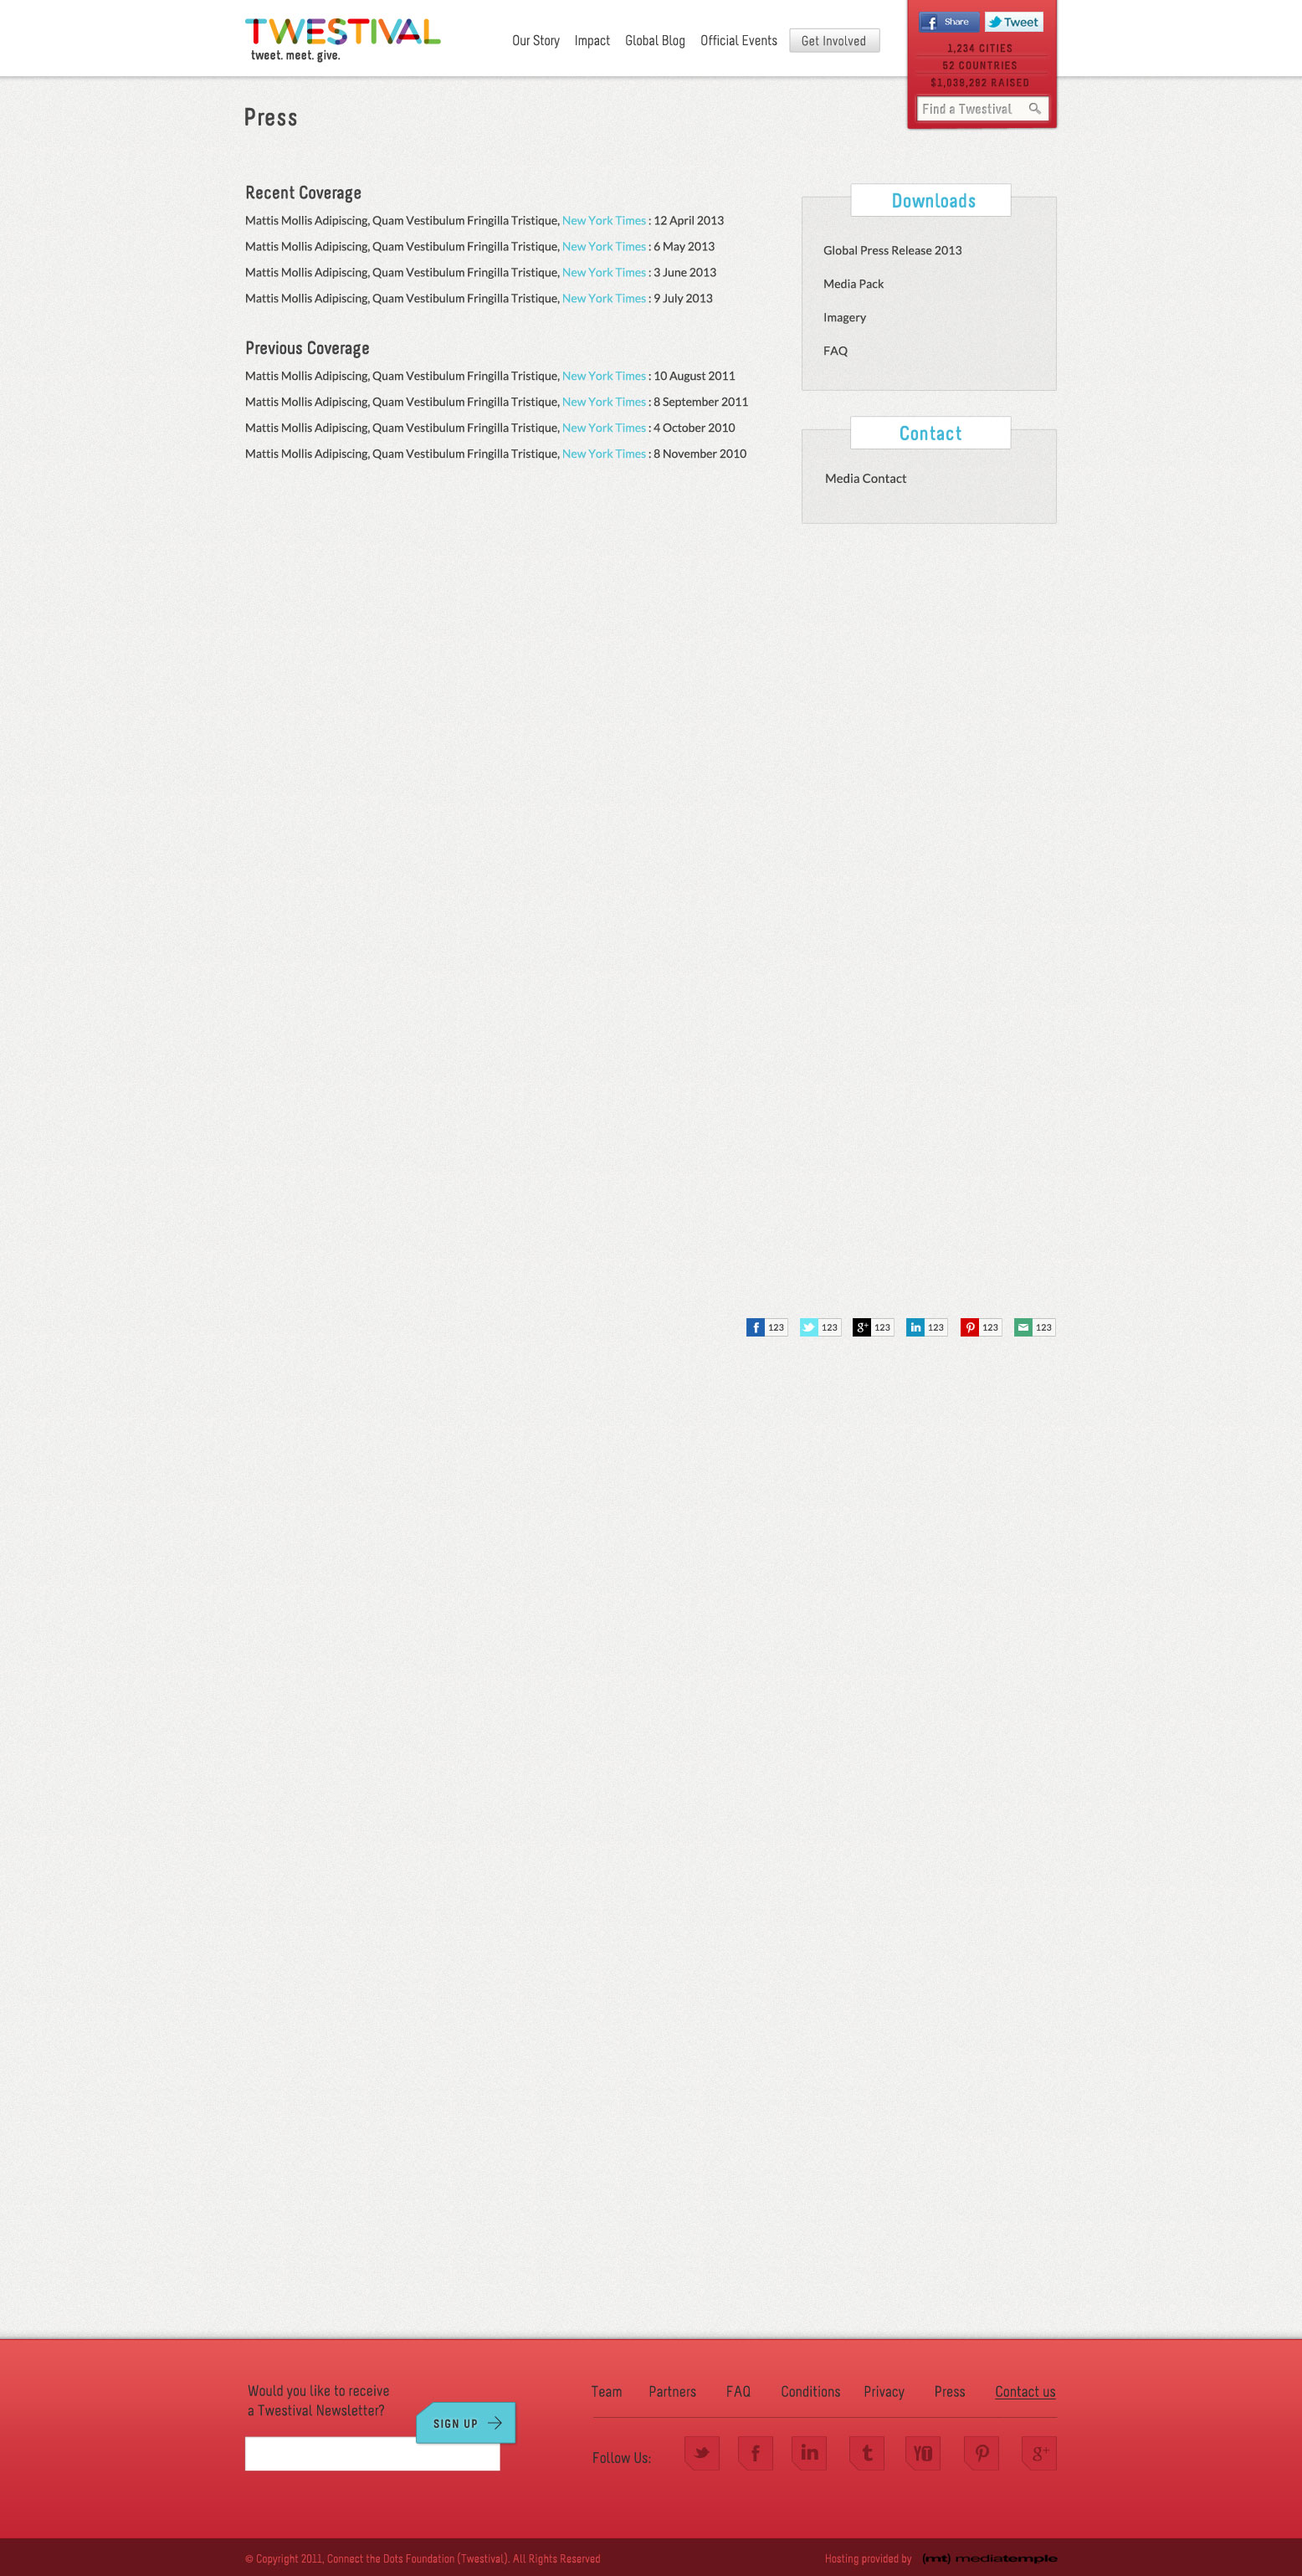
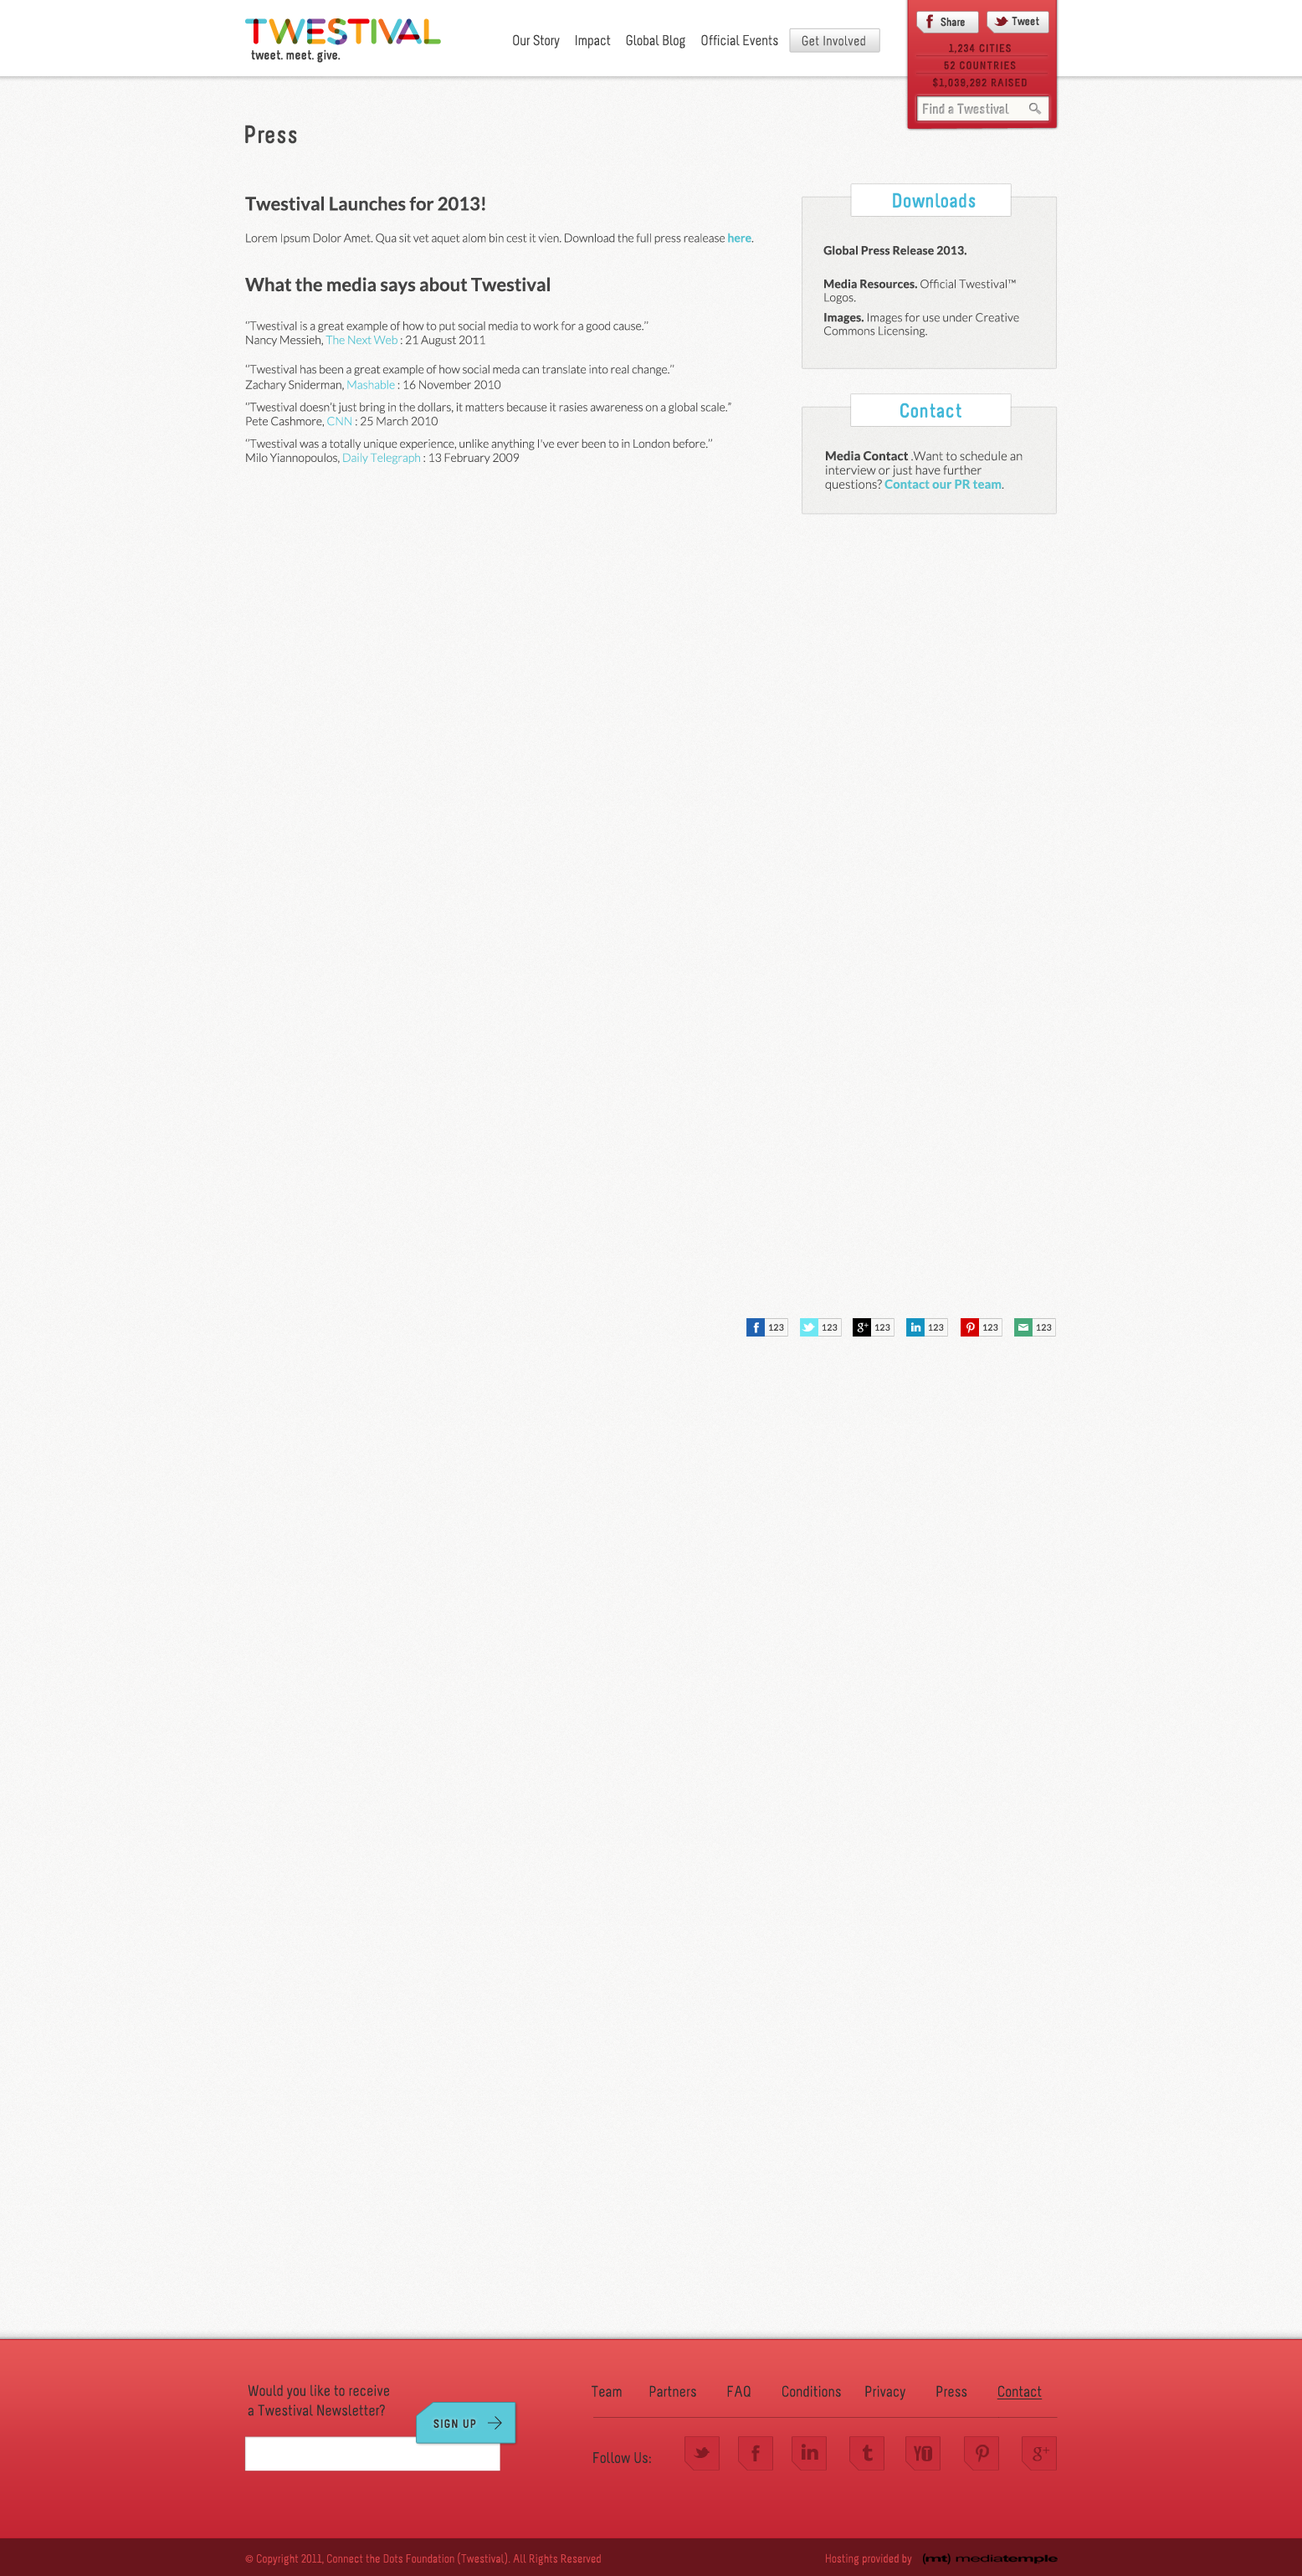
Working Press edit/view page

diff --git a/2013/css/press.css b/2013/css/press.css
@@ -1,0 +1,33 @@
+.coverage {
+	width: 622px;
+	float: left;
+	padding-right: 15px;
+}
+.coverage h2 {
+	margin: 32px 0px 3px 0px;
+	font-family: 'Melbourne-Bold';
+	font-weight: normal;
+	font-size: 24px;
+	letter-spacing: -0.1px;
+}
+.coverage p {
+	margin: 0px 0px 16px 0px;
+	font-family: 'Lato';
+	font-size: 14px;
+	line-height: 22px;
+}
+
+.sidebar ul {
+	list-style-type: none;
+	margin: 0px;
+	padding: 0px;
+	font-family: 'Lato';
+	font-size: 13px;
+}
+.sidebar ul li {
+	margin: 10px 8px 16px 8px;
+}
+.sidebar #sidebar-contact a {
+	color: #50B1BD;
+	font-weight: bold;
+}

diff --git a/2013/php/src/Twestival/Resources/GlobalAdminPageContentResource.php b/2013/php/src/Twestival/Resources/GlobalAdminPageContentResource.php
@@ -13,7 +13,7 @@ class GlobalAdminPageContentResource extends BaseResource
 	 */
 	function showEditor($pageName, $contentName)
 	{
-		return $this->renderMustacheHeaderFooter('Global/Editable/' . ucwords(strtolower($pageName)), array(
+		return $this->renderMustacheHeaderFooter('Global/Admin/Editable/' . ucwords(strtolower($pageName)), array(
 				'PageContent' => $this->container['service.page']->getPageContent($pageName, $contentName),
 				'Editable' => TRUE
 		));

diff --git a/2013/php/src/Twestival/Resources/GlobalPressResource.php b/2013/php/src/Twestival/Resources/GlobalPressResource.php
@@ -1,0 +1,20 @@
+<?php namespace Twestival\Resources;
+
+/**
+ * @namespace global
+ * @uri /press
+ */
+class GlobalPressResource extends BaseResource
+{
+	/**
+	 * @method get
+	 * @provides text/html
+	 */
+	function html()
+	{
+		return $this->renderMustacheHeaderFooter('Global/Press', array(
+			'PageContent' => $this->container['service.page']->getPageContent('PRESS', 'BODY')
+		));
+	}
+}
+?>

diff --git a/2013/php/src/Twestival/Resources/LogoutResource.php b/2013/php/src/Twestival/Resources/LogoutResource.php
@@ -1,0 +1,18 @@
+<?php namespace Twestival\Resources;
+
+/**
+ * @uri /logout
+ */
+class LogoutResource extends BaseResource
+{
+	/**
+	 * @method get
+	 * @provides text/html
+	 */
+	function logout()
+	{
+		$this->container['service.login']->logout();
+		throw new \Twestival\RedirectException('/');
+	}
+}
+?>
